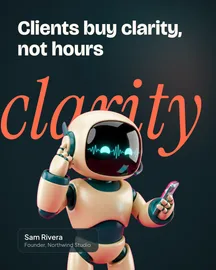
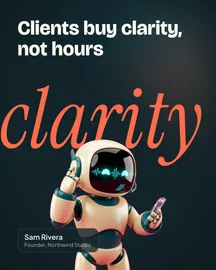
Cut-out cover: the person stands in front of the giant word like the picker picture (task 44)
Claude-Session: https://claude.ai/code/session_01GHLCcCaaR6YTzTKAKZt5Fz

Changed region(s): [[0.0, 0.2667, 0.9444, 1.0]]

diff --git a/src/lib/covers/modern.tsx b/src/lib/covers/modern.tsx
@@ -407,6 +407,25 @@ export function giantWord(headline: string, emphasis?: string): string {
   return words.reduce((a, b) => (b.length > a.length ? b : a), "").toLowerCase();
 }
 
+/**
+ * Where the Cut-out cover puts the person and the giant word: the person
+ * stands on the bottom edge and the word sits behind the head, so the head
+ * covers the word's lower part (the picker's picture). The word's top stays
+ * clear and readable, and it never rides into the headline. Short words
+ * (big) give a smaller person, long words (small) a taller one, so the
+ * overlap and the gap under the headline look the same on every post.
+ */
+export function cutoutLayout(i: { width: number; height: number; headlineBottom: number; giantSize: number }): { cw: number; ch: number; giantTop: number } {
+  const COVER = 0.74; // the head's top sits this far down the word's line box
+  const wanted = H - (i.headlineBottom + 90 + COVER * i.giantSize);
+  const chWanted = Math.min(900, Math.max(540, wanted));
+  const scale = Math.min(chWanted / i.height, 980 / i.width);
+  const cw = Math.round(i.width * scale);
+  const ch = Math.round(i.height * scale);
+  const giantTop = Math.max(Math.round(i.headlineBottom - i.giantSize * 0.12), Math.round(H - ch - COVER * i.giantSize));
+  return { cw, ch, giantTop };
+}
+
 /** CUTOUT: the author's cut-out photo standing in front of one giant italic word, the headline above, on a dark glow. */
 function Cutout(spec: BannerSpec) {
   const { brand } = spec;
@@ -416,17 +435,11 @@ function Cutout(spec: BannerSpec) {
   const headline = fitBox(spec.headline, 60, 100, { face: "serif", maxWidth: INNER, maxLines: 3, maxHeight: 330, lineHeight: 1.04 }, "headline");
   const word = giantWord(spec.headline, spec.emphasis);
   const giant = fitBox(word, 150, 420, { face: "italic", maxWidth: W - 60, maxLines: 1 }, "giant word");
-  // The person stands on the bottom edge, as tall as the page below the headline allows.
-  const maxH = 800;
-  const scale = Math.min(maxH / spec.cutout.height, 980 / spec.cutout.width);
-  const cw = Math.round(spec.cutout.width * scale);
-  const ch = Math.round(spec.cutout.height * scale);
+  const labelRow0 = spec.label ? 28 * 1.2 + 32 : 0;
+  const headlineBottom = PAD + labelRow0 + headline.lines.length * headline.size * 1.04;
+  const { cw, ch, giantTop } = cutoutLayout({ width: spec.cutout.width, height: spec.cutout.height, headlineBottom, giantSize: giant.size });
   const name = fitBox(spec.author.name, 30, 36, { face: "sansSemi", maxWidth: 520, maxLines: 1 }, "name");
   const role = spec.author.role ? fit(spec.author.role, 22, 26, { face: "sans", maxWidth: 520, maxLines: 1 }) : null;
-  // High enough that the head covers only the word's lower half, so it stays
-  // readable above it; never into the headline (the line box has the ascent's air on top).
-  const labelRow = spec.label ? 28 * 1.2 + 32 : 0;
-  const giantTop = Math.max(340, Math.round(PAD + labelRow + headline.lines.length * headline.size * 1.04 - giant.size * 0.12));
   return (
     <div style={{ width: "100%", height: "100%", display: "flex", flexDirection: "column", padding: PAD, position: "relative", overflow: "hidden" }}>
       {/* eslint-disable-next-line @next/next/no-img-element */}

diff --git a/src/lib/covers/modern.test.ts b/src/lib/covers/modern.test.ts
@@ -1,7 +1,7 @@
 import { describe, expect, it } from "vitest";
 import { DEFAULT_COVER_BRAND } from "./brand";
 import { CoverFitError } from "./layouts";
-import { BANNER_DESIGNS, bannerElement, giantWord, stickerTexts, type BannerSpec } from "./modern";
+import { BANNER_DESIGNS, bannerElement, cutoutLayout, giantWord, stickerTexts, type BannerSpec } from "./modern";
 import { prepareCutout } from "./photo";
 import sharp from "sharp";
 
@@ -65,4 +65,26 @@ describe("modern banner designs", () => {
   it("lets a label and a series number win over tags", () => {
     expect(stickerTexts({ label: "For founders", seriesNo: 5, tags: ["Scope", "Price"] })).toEqual({ top: "For founders", bottom: "No. 05" });
   });
+});
+
+describe("cutoutLayout", () => {
+  // The picture the picker shows: the figure stands in front of the giant word, covering its lower part.
+  const person = { width: 900, height: 1000 };
+  const cases = [
+    { name: "a short word, two-line headline", headlineBottom: 260, giantSize: 400 },
+    { name: "a long word, three-line headline", headlineBottom: 310, giantSize: 150 },
+    { name: "a four-line headline", headlineBottom: 380, giantSize: 190 },
+  ];
+  for (const c of cases) {
+    it(`puts the head in front of the word's lower part: ${c.name}`, () => {
+      const l = cutoutLayout({ ...person, ...c });
+      const personTop = 1350 - l.ch;
+      expect(personTop).toBeGreaterThan(l.giantTop + c.giantSize * 0.3); // the word's top stays clear
+      expect(personTop).toBeLessThan(l.giantTop + c.giantSize * 0.9); // the head covers its lower part
+      expect(l.giantTop).toBeGreaterThanOrEqual(c.headlineBottom - c.giantSize * 0.12); // never into the headline
+      expect(l.cw).toBeLessThanOrEqual(980);
+      expect(l.ch).toBeLessThanOrEqual(900);
+      expect(l.ch).toBeGreaterThanOrEqual(540);
+    });
+  }
 });

diff --git a/tasks/44.md b/tasks/44.md
@@ -1,0 +1,19 @@
+# Task 44: Cut-out cover matches its picker picture
+
+## Goal
+The Cut-out cover draws the way its picker sample does: the person stands in front of the giant word, the head covering the word's lower part, whatever the headline or word length.
+
+## Files to touch
+- src/lib/covers/modern.tsx (`cutoutLayout`), src/lib/covers/modern.test.ts
+- public/images/pickers/cover-cutout.webp (regenerated)
+
+## Constraints
+- Word stays readable (top clear), never rides into the headline. Same quality on short and long words.
+
+## Acceptance tests
+- [x] `cutoutLayout`: head top between 0.3 and 0.9 of the word's height, word never above the headline.
+- [x] Rendered a long-word and a short-word cover and compared with the picker picture.
+- [x] npm test, tsc pass; lint has no new errors.
+
+## Do not touch
+- prisma/, n8n/, .env*
